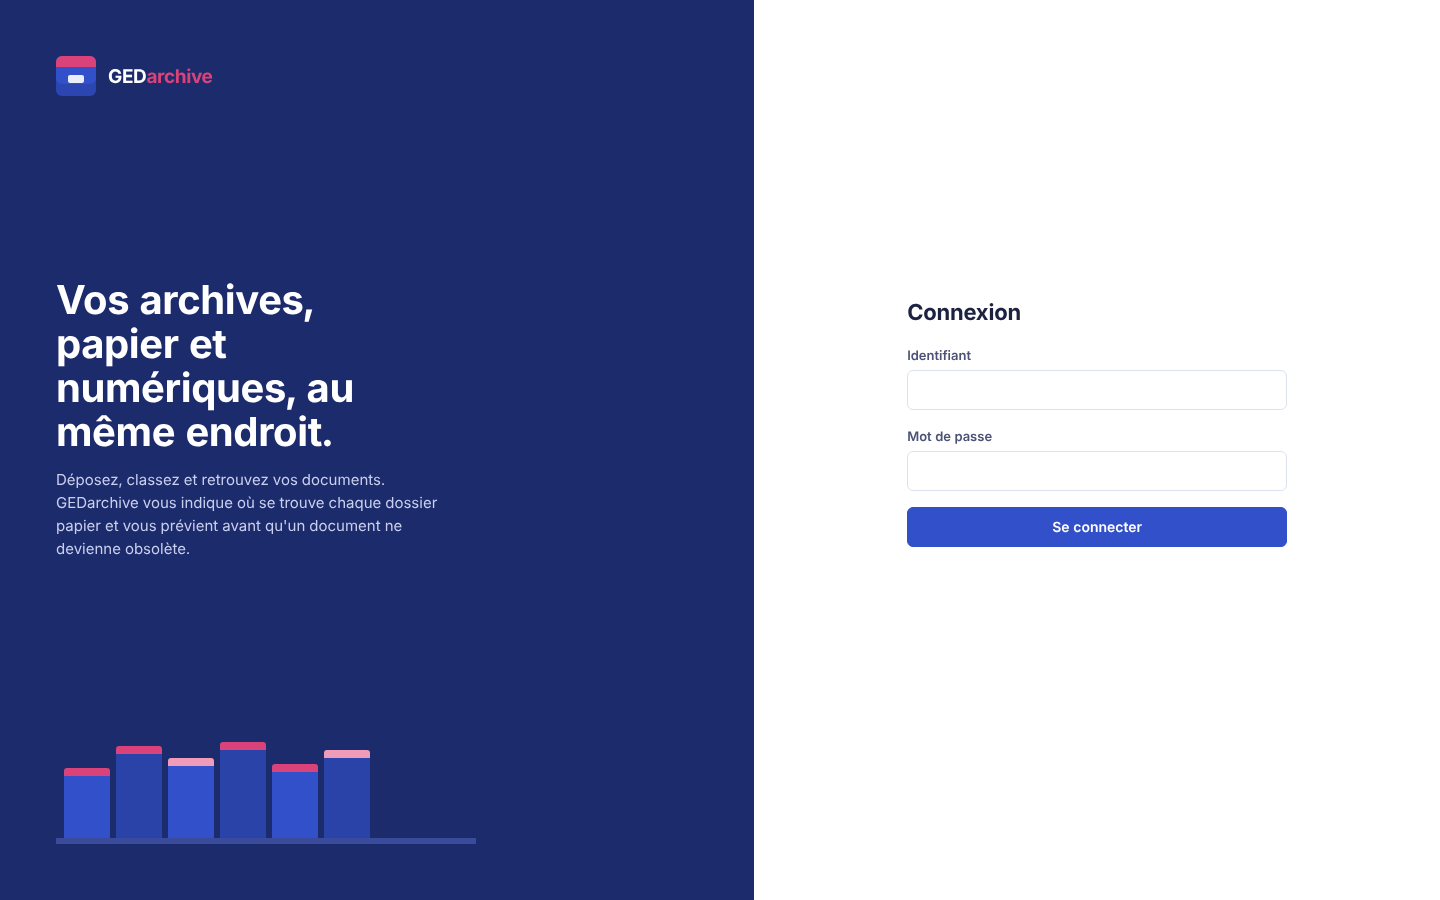
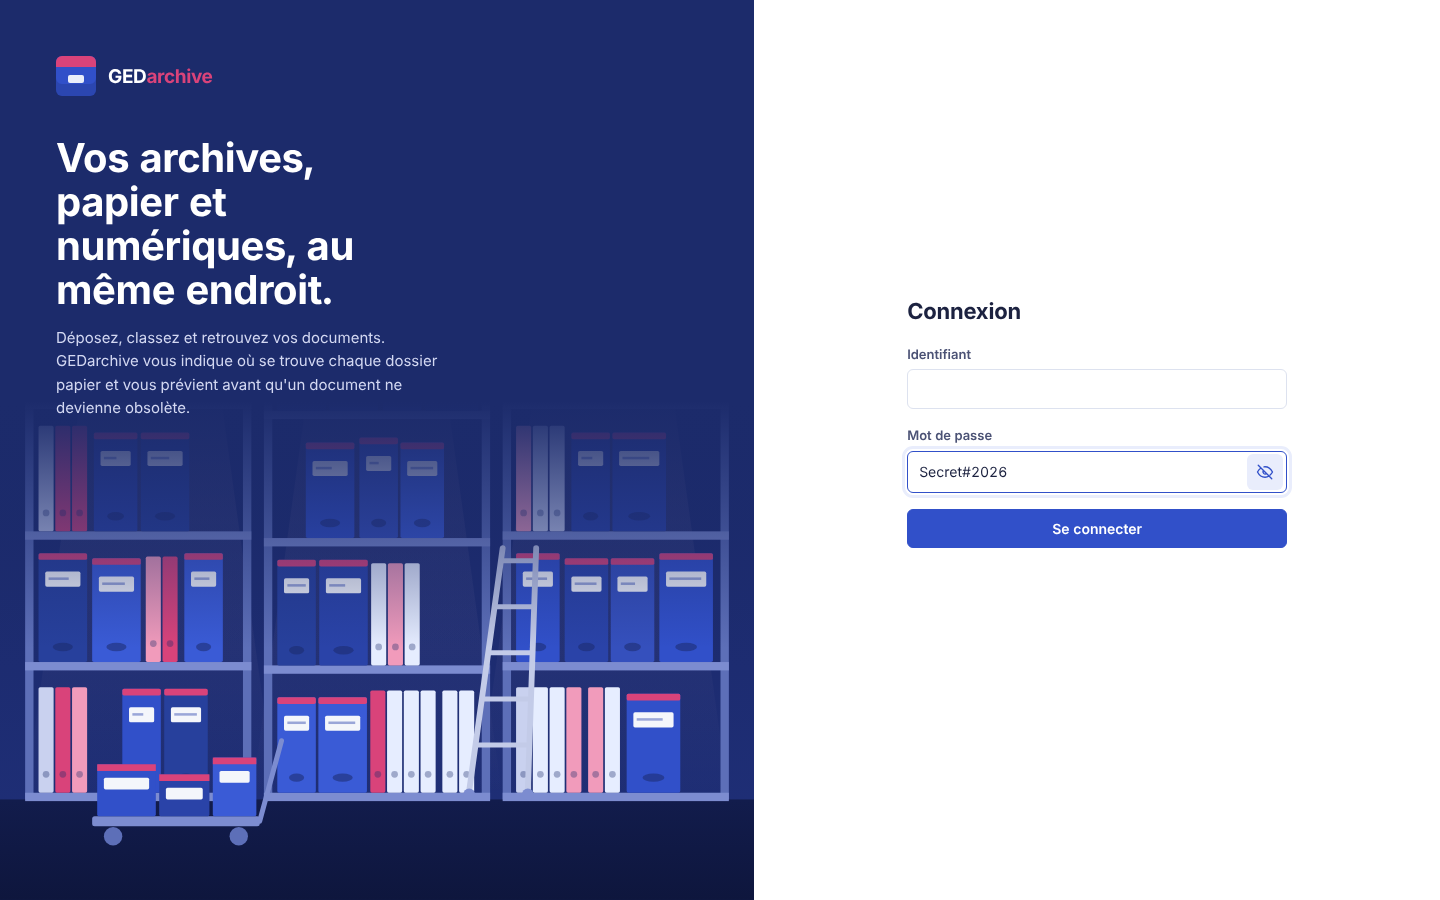
feat(connexion): illustration de magasin d'archives et affichage du mot de passe
- Illustration originale (SVG, 23 Ko) : rayonnages, boîtes cotées, escabeau
  et chariot aux couleurs de GEDarchive ; occupe tout le panneau gauche,
  voile dégradé pour la lisibilité du texte (mobile compris)
- Bouton œil pour afficher / masquer le mot de passe (aria-pressed,
  libellé accessible), remasqué à l'envoi
- Avertissement « Majuscules activées (Verr. Maj) »

Claude-Session: https://claude.ai/code/session_01GufjvA1k36YSMzM4jMbG5D

diff --git a/backend/app/static/style.css b/backend/app/static/style.css
@@ -35,15 +35,24 @@ svg.i { width: 18px; height: 18px; flex: none; stroke: currentColor; fill: none;
 
 /* Connexion */
 .login { min-height: 100vh; display: grid; grid-template-columns: minmax(0, 1.1fr) minmax(0, 1fr); background: var(--card); }
-.login-side { background: var(--navy); color: #fff; padding: 56px; display: flex; flex-direction: column; justify-content: space-between; gap: 32px; }
-.login-side h1 { font-size: 40px; line-height: 1.1; max-width: 13ch; margin: 0; }
-.login-side p { max-width: 42ch; color: #c9cfee; margin: 14px 0 0; font-size: 15px; }
-.login-shelf { display: flex; align-items: flex-end; gap: 6px; border-bottom: 6px solid #3a4b9b; padding: 0 8px; max-width: 420px; }
-.login-shelf i { display: block; width: 46px; border-radius: 3px 3px 0 0; background: #3150c9; border-top: 8px solid var(--rose); }
-.login-shelf i:nth-child(2n) { background: #2a43a8; } .login-shelf i:nth-child(3n) { border-top-color: #f19bbb; }
+.login-side { position: relative; overflow: hidden; color: #fff; padding: 56px; display: flex; flex-direction: column; gap: 40px;
+  background: var(--navy) url("/static/img/connexion.svg") center bottom / cover no-repeat; }
+/* Voile en haut : le texte reste lisible sur l'illustration */
+.login-side::before { content: ""; position: absolute; inset: 0 0 auto; height: 72%; pointer-events: none;
+  background: linear-gradient(#1c2b6b 0%, #1c2b6b 62%, rgba(28, 43, 107, 0) 100%); }
+.login-side > * { position: relative; }
+.login-side h1 { font-size: 40px; line-height: 1.1; max-width: 14ch; margin: 0; }
+.login-side p { max-width: 42ch; color: #d3d8f2; margin: 14px 0 0; font-size: 15px; }
 .login-main { display: grid; place-items: center; padding: 24px; }
 .login-card { width: min(380px, 100%); display: grid; gap: 16px; }
 .login-card h2 { font-size: 22px; margin: 0; }
+.login-card > label[for] { margin-bottom: -10px; }
+.pwd { position: relative; }
+.pwd input { padding-right: 46px; }
+.pwd-toggle { position: absolute; right: 4px; top: 50%; transform: translateY(-50%); width: 36px; height: 36px; border: 0;
+  border-radius: 6px; background: transparent; color: var(--muted); display: grid; place-items: center; cursor: pointer; }
+.pwd-toggle:hover, .pwd-toggle[aria-pressed="true"] { color: var(--blue); background: var(--blue-2); }
+.caps { margin: -6px 0 0; font-size: 12px; font-weight: 600; color: var(--warn); }
 
 /* Mise en page */
 #app { display: grid; grid-template-columns: 240px minmax(0, 1fr); min-height: 100vh; }
@@ -217,7 +226,7 @@ dl.meta dt { color: var(--muted); font-size: 13px; } dl.meta dd { margin: 0; }
 @media (prefers-reduced-motion: reduce) { * { transition: none !important; } }
 @media (max-width: 1000px) { .kpis { grid-template-columns: repeat(3, minmax(0, 1fr)); } .kpi:nth-child(4) { border-left: 0; } .kpi:nth-child(n+4) { border-top: 1px solid var(--line); } }
 @media (max-width: 860px) {
-  .login { grid-template-columns: 1fr; } .login-side { padding: 28px 20px; } .login-side h1 { font-size: 30px; }
+  .login { grid-template-columns: 1fr; } .login-side { padding: 28px 20px 220px; } .login-side h1 { font-size: 30px; } .login-side::before { height: 75%; }
   #app { grid-template-columns: minmax(0, 1fr); }
   .sidebar { position: static; height: auto; padding: 14px 16px; gap: 12px; }
   .sidebar .brand { padding: 0; }

diff --git a/backend/app/static/index.html b/backend/app/static/index.html
@@ -15,6 +15,8 @@
     <symbol id="i-search" viewBox="0 0 24 24"><circle cx="11" cy="11" r="7"/><path d="M20 20l-3.5-3.5"/></symbol>
     <symbol id="i-upload" viewBox="0 0 24 24"><path d="M12 15V3M7 8l5-5 5 5M4 15v4a2 2 0 0 0 2 2h12a2 2 0 0 0 2-2v-4"/></symbol>
     <symbol id="i-camera" viewBox="0 0 24 24"><path d="M4 8h3l2-3h6l2 3h3a1 1 0 0 1 1 1v10a1 1 0 0 1-1 1H4a1 1 0 0 1-1-1V9a1 1 0 0 1 1-1z"/><circle cx="12" cy="13.5" r="3.5"/></symbol>
+    <symbol id="i-eye" viewBox="0 0 24 24"><path d="M2 12s3.6-7 10-7 10 7 10 7-3.6 7-10 7S2 12 2 12z"/><circle cx="12" cy="12" r="3"/></symbol>
+    <symbol id="i-eye-off" viewBox="0 0 24 24"><path d="M3 3l18 18M10.6 5.1A10 10 0 0 1 12 5c6.4 0 10 7 10 7a17 17 0 0 1-3.2 4M6.6 6.6C3.9 8.3 2 12 2 12s3.6 7 10 7a9.6 9.6 0 0 0 5.4-1.6M9.9 9.9a3 3 0 0 0 4.2 4.2"/></symbol>
     <symbol id="i-tree" viewBox="0 0 24 24"><path d="M4 4h6v5H4zM14 15h6v5h-6zM14 4h6v5h-6zM7 9v8h7M7 6.5h7"/></symbol>
     <symbol id="i-shelf" viewBox="0 0 24 24"><path d="M3 21h18M3 3v18M21 3v18M3 12h18M6 12V6h4v6M12 12V7h3v5M6 21v-6h4v6M13 21v-5h4v5"/></symbol>
     <symbol id="i-clock" viewBox="0 0 24 24"><circle cx="12" cy="12" r="9"/><path d="M12 7v5l3 2"/></symbol>
@@ -32,15 +34,18 @@
         <h1>Vos archives, papier et numériques, au même endroit.</h1>
         <p>Déposez, classez et retrouvez vos documents. GEDarchive vous indique où se trouve chaque dossier papier et vous prévient avant qu'un document ne devienne obsolète.</p>
       </div>
-      <div class="login-shelf" aria-hidden="true">
-        <i style="height:70px"></i><i style="height:92px"></i><i style="height:80px"></i><i style="height:96px"></i><i style="height:74px"></i><i style="height:88px"></i>
-      </div>
     </div>
     <div class="login-main">
       <form id="login-form" class="login-card">
         <h2>Connexion</h2>
         <label>Identifiant<input name="username" autocomplete="username" required></label>
-        <label>Mot de passe<input name="password" type="password" autocomplete="current-password" required></label>
+        <label for="login-password">Mot de passe</label>
+        <div class="pwd">
+          <input id="login-password" name="password" type="password" autocomplete="current-password" required>
+          <button type="button" class="pwd-toggle" id="pwd-toggle" aria-label="Afficher le mot de passe" aria-pressed="false" title="Afficher le mot de passe">
+            <svg class="i"><use href="#i-eye"/></svg></button>
+        </div>
+        <p class="caps hidden" id="caps" role="status">Majuscules activées (Verr. Maj)</p>
         <button class="btn primary" type="submit">Se connecter</button>
         <p id="login-error" class="error" role="alert"></p>
       </form>

diff --git a/backend/app/static/app.js b/backend/app/static/app.js
@@ -74,12 +74,28 @@ $("#login-form").addEventListener("submit", async (e) => {
   $("#login-error").textContent = "";
   try {
     const t = await api("/api/auth/login", { method: "POST", body: new URLSearchParams(new FormData(e.target)) });
+    if ($("#login-password").type === "text") $("#pwd-toggle").click();   // ne pas laisser le mot de passe visible
     S.token = t.access_token;
     sessionStorage.setItem("siged_token", S.token);
     boot();
   } catch (err) { $("#login-error").textContent = err.message; }
 });
 $("#logout").onclick = logout;
+
+/* Mot de passe : afficher / masquer (repasse en masqué à l'envoi) et avertissement Verr. Maj */
+$("#pwd-toggle").onclick = () => {
+  const input = $("#login-password"), btn = $("#pwd-toggle");
+  const show = input.type === "password";
+  input.type = show ? "text" : "password";
+  btn.setAttribute("aria-pressed", String(show));
+  btn.setAttribute("aria-label", show ? "Masquer le mot de passe" : "Afficher le mot de passe");
+  btn.title = btn.getAttribute("aria-label");
+  btn.querySelector("use").setAttribute("href", show ? "#i-eye-off" : "#i-eye");
+  input.focus();
+};
+["keydown", "keyup"].forEach((ev) => $("#login-password").addEventListener(ev, (e) => {
+  if (e.getModifierState) $("#caps").classList.toggle("hidden", !e.getModifierState("CapsLock"));
+}));
 $("#nav").addEventListener("click", (e) => { const a = e.target.closest("a[data-view]"); if (a) go(a.dataset.view); });
 
 const VIEWS = {};
